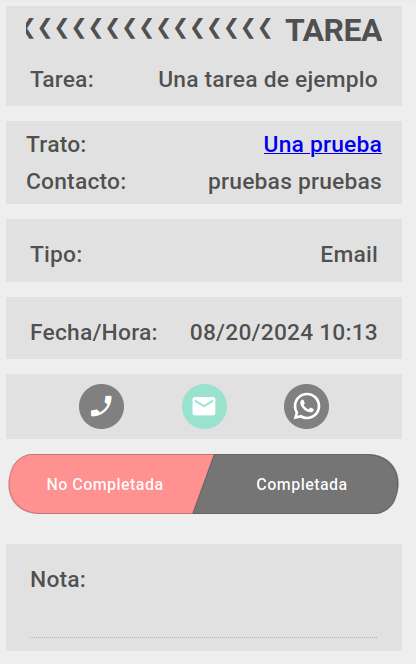
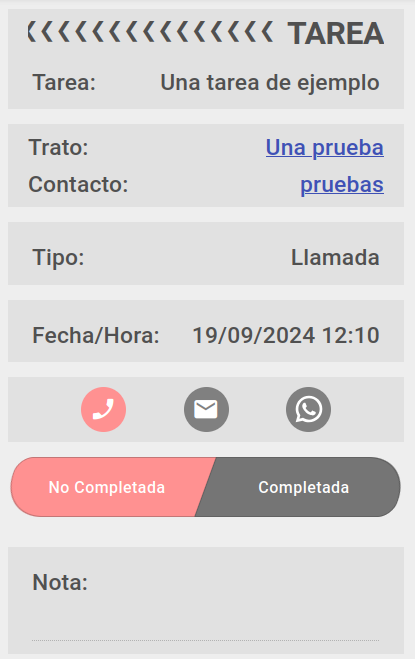
refact(SAN): Añadido manual navegación a contacto de tarea.

diff --git a/proyectos/san/area_facturacion/smart_sales/tareas.md b/proyectos/san/area_facturacion/smart_sales/tareas.md
@@ -24,7 +24,9 @@ El tipo ya aparecerá seleccionado y debemos elegir si realizar la tarea ahora o
 En la ficha de la tarea podemos ver una serie de cajas con la información de la misma.
 
 - Título (*editable*)
-- Datos del trato (*no editable*)
+- Datos del trato (*no editable*):
+  - Trato al que pertenece(clicable para navegación)
+  - Contacto o cliente(clicable para navegación)
 - Tipo de tarea (*editable*)
 - Fecha y hora (*editable*)
 - Acciones (*hacer llamada, abrir el servidor de correo electrónica, mandar un mensaje de whatsapp*)
